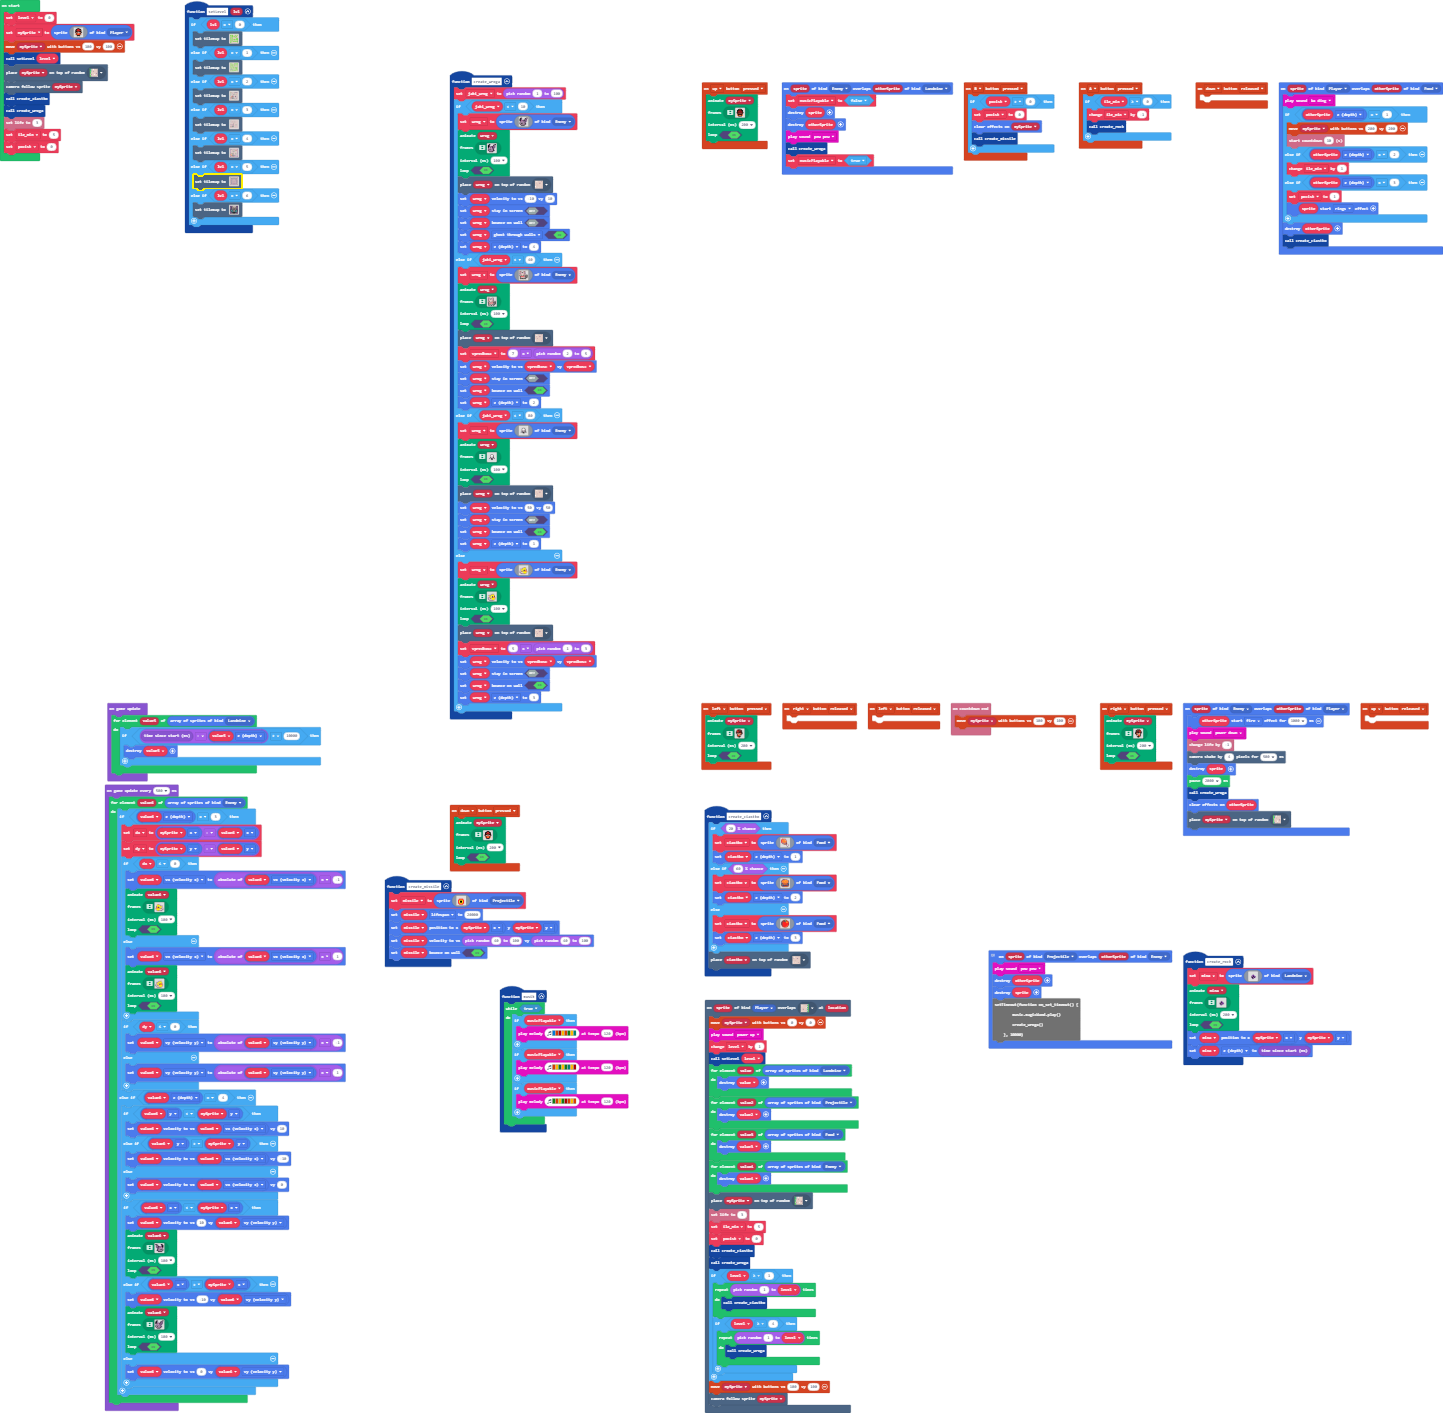
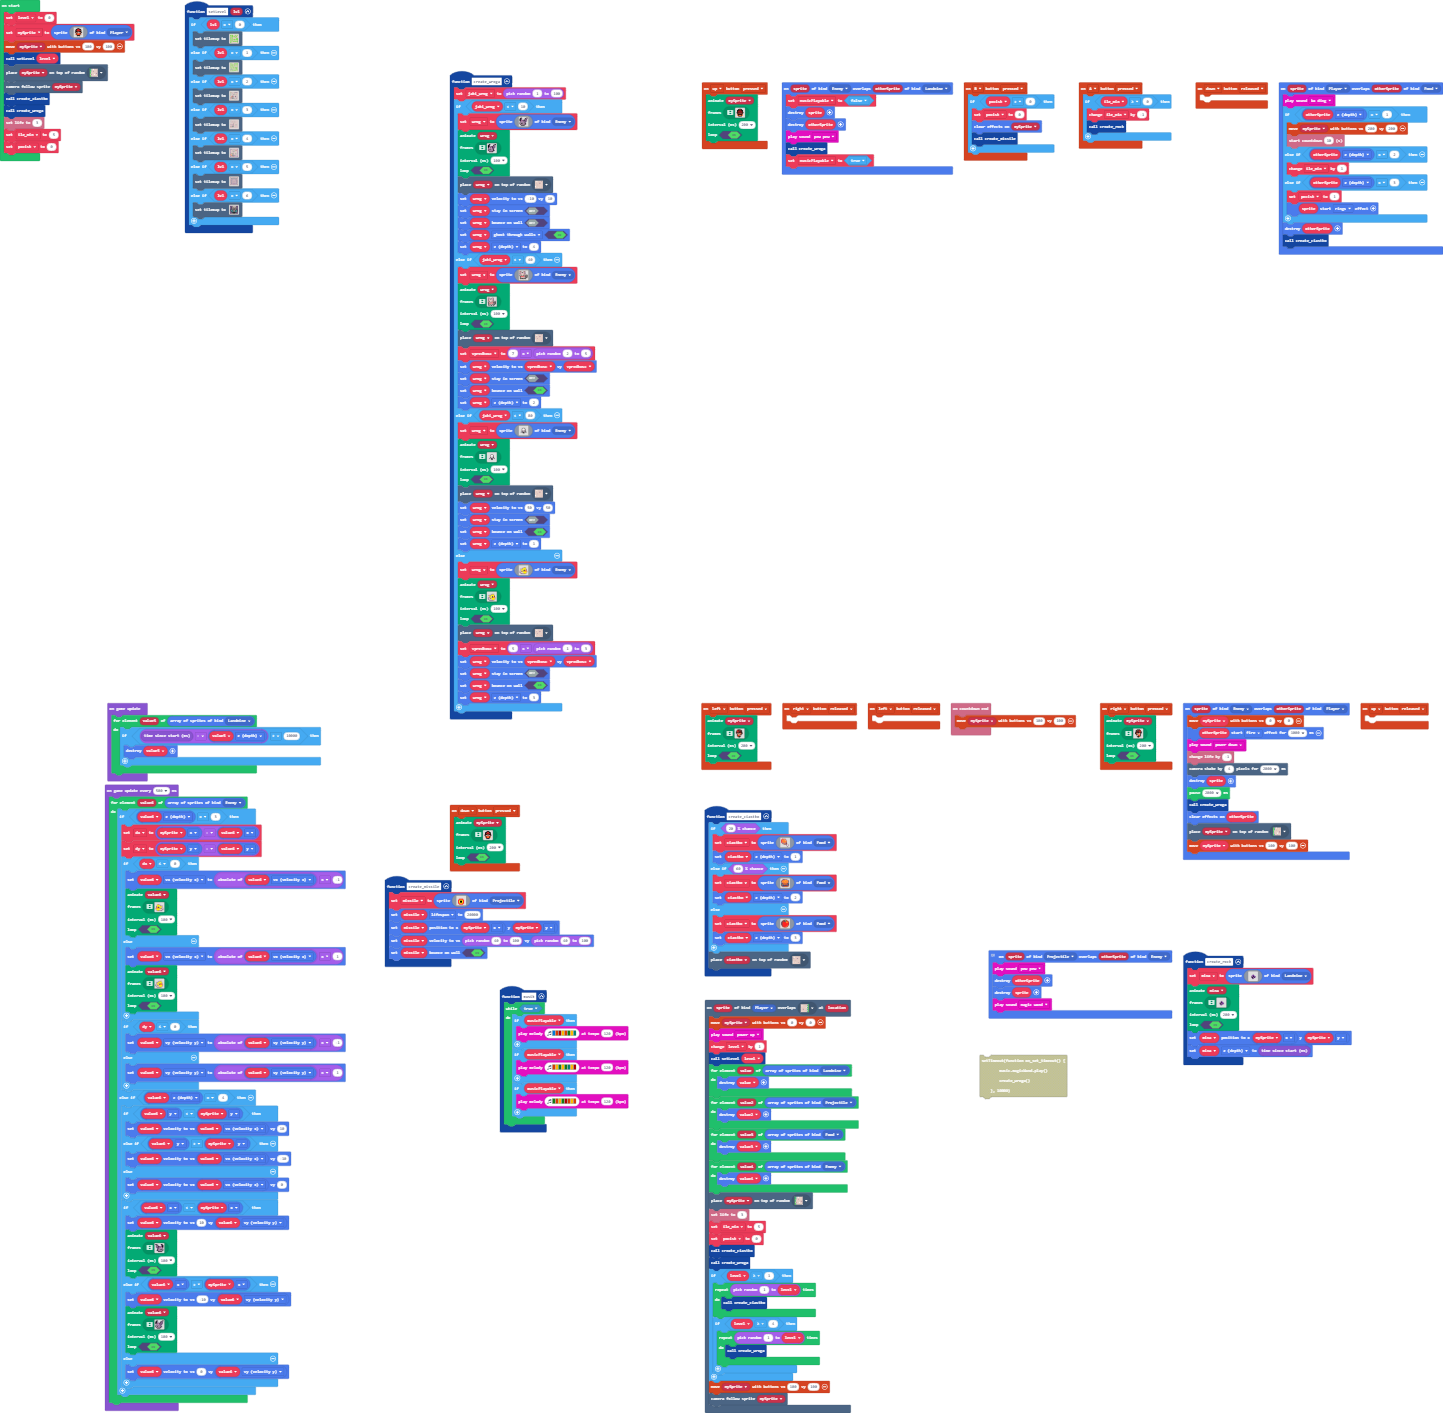
usuniety kawalek javascript ze spawnowaniem

Changed region(s): [[0.8108, 0.4982, 0.9356, 0.6228], [0.6549, 0.6851, 0.8108, 0.7785]]

diff --git a/images.g.ts b/images.g.ts
@@ -181,66 +181,6 @@ c e e 2 2 2 2 2 2 2 2 2 2 4 2 e
 . . . . . f f f f f f . . . . . 
 . . . . . f f . . f f . . . . . 
 `;
-            case "image1":return img`
-f f f f f f f f f f 
-f f f f f f f f f f 
-f f f f f f f f f f 
-f 4 f f f f f f 7 f 
-f f f f f f f f f f 
-f f f f f f f f f f 
-f f f f f f f f f f 
-f f f f f f f f f f 
-`;
-            case "image2":return img`
-9 9 9 9 9 9 9 9 9 9 
-9 9 9 9 9 9 9 9 9 9 
-9 9 9 9 9 9 9 9 9 9 
-9 4 9 9 9 9 9 9 7 9 
-9 9 9 9 9 9 9 9 9 9 
-9 9 9 9 9 9 9 9 9 9 
-9 9 9 9 9 9 9 9 9 9 
-9 9 9 9 9 9 9 9 9 9 
-`;
-            case "image3":return img`
-3 3 3 3 3 3 3 3 3 3 
-3 3 3 3 3 3 3 3 3 3 
-3 3 3 3 3 3 3 3 3 3 
-3 4 3 3 3 3 3 3 7 3 
-3 3 3 3 3 3 3 3 3 3 
-3 3 3 3 3 3 3 3 3 3 
-3 3 3 3 3 3 3 3 3 3 
-3 3 3 3 3 3 3 3 3 3 
-`;
-            case "image4":return img`
-f f f f f f f f f f 
-f f f f f f f f f f 
-f f f f f f f f f f 
-f 4 f f f f f f 7 f 
-f f f f f f f f f f 
-f f f f f f f f f f 
-f f f f f f f f f f 
-f f f f f f f f f f 
-`;
-            case "image5":return img`
-9 9 9 9 9 9 9 9 9 9 
-9 9 9 9 9 9 9 9 9 9 
-9 9 9 9 9 9 9 9 9 9 
-9 4 9 9 9 9 9 9 7 9 
-9 9 9 9 9 9 9 9 9 9 
-9 9 9 9 9 9 9 9 9 9 
-9 9 9 9 9 9 9 9 9 9 
-9 9 9 9 9 9 9 9 9 9 
-`;
-            case "image6":return img`
-3 3 3 3 3 3 3 3 3 3 
-3 3 3 3 3 3 3 3 3 3 
-3 3 3 3 3 3 3 3 3 3 
-3 4 3 3 3 3 3 3 7 3 
-3 3 3 3 3 3 3 3 3 3 
-3 3 3 3 3 3 3 3 3 3 
-3 3 3 3 3 3 3 3 3 3 
-3 3 3 3 3 3 3 3 3 3 
-`;
         }
         return null;
     })
@@ -5061,109 +5001,6 @@ c c c c . . . . . . . c c c . .
 . . . . f c b b b 1 f f f 1 f . 
 . . . . . f c b b b b b b f . . 
 . . . . . . f f f f f f f . . . 
-`];
-            case "anim49":return [img`
-. . . . . . . . . . . . . . . . 
-. . . . . . . . . . . . . . . . 
-. . . b 5 5 b . . . . . . . . . 
-. . . . b b b b b b . . . . . . 
-. . . b 5 5 5 5 5 b b . . . . . 
-. . b 5 5 5 5 5 5 5 b b b b b . 
-. . b 5 5 5 5 5 5 5 5 b 5 d b . 
-. . f 4 d 5 f 1 d 5 b 5 5 b . . 
-. . c 4 4 5 f f 1 b 5 5 d b . . 
-. b 4 4 4 4 b f d 5 5 5 b d b b 
-b 4 4 4 4 4 4 5 b 5 5 d c d d b 
-. b 5 5 5 5 5 5 5 b c c d d d c 
-. b 5 5 5 5 5 5 5 d d d d d b c 
-. b d 5 5 5 5 5 d d d d d d c . 
-. . b b 5 5 5 d d d d d b c . . 
-. . . b b c c c c c c c c . . . 
-`, img`
-. . . . . . . . . . . . . . . . 
-. . . b 5 b . . . . . . . . . . 
-. . . . b 5 b . . . . . . . . . 
-. . . . b b b b b b . . . . . . 
-. . . b 5 5 5 5 5 b b . . . . . 
-. . b 5 5 5 5 5 5 5 b b b b b . 
-. . b 5 5 5 5 5 5 5 5 b 5 d b . 
-. . f 4 d 5 f 1 d 5 b 5 5 b . . 
-. . c 4 4 5 f f 1 b 5 5 d b . . 
-b 4 4 4 4 4 b f d 5 5 5 b d b b 
-. b 4 4 4 4 4 5 b 5 5 d c d d b 
-. b 5 5 5 5 5 5 5 b c c d d d c 
-. b 5 5 5 5 5 5 5 d d d d d b c 
-. b d 5 5 5 5 5 d d d d d d c . 
-. . b b 5 5 5 d d d d d b c . . 
-. . . b b c c c c c c c c . . . 
-`, img`
-. . . b 5 b . . . . . . . . . . 
-. . . . b 5 b . . . . . . . . . 
-. . . . . c b . . . . . . . . . 
-. . . . b b b b b b . . . . . . 
-. . . b 5 5 5 5 5 b b . . . . . 
-. . f d 5 5 f 1 d 5 b b . . . . 
-. . c 4 d 5 f f 1 5 5 b . . . . 
-. . 4 4 d d b f d 5 5 b . . . . 
-b 4 4 4 4 4 5 5 5 d b b d d d b 
-. b 4 4 4 4 4 5 5 b 5 5 5 d b b 
-. . b 5 5 5 5 5 d 5 5 5 5 c d b 
-. b 5 5 5 5 5 5 b 5 5 d c d d c 
-. b 5 5 5 5 5 5 5 b c c d d b c 
-. b d 5 5 5 5 5 d d d d d d c . 
-. . b b 5 5 5 d d d d d b c . . 
-. . . b b c c c c c c c c . . . 
-`, img`
-. . . b 5 b . . . . . . . . . . 
-. . . . b 5 b . . . . . . . . . 
-. . . . b b b b b b . . . . . . 
-. . . b 5 5 5 5 5 b b . . . . . 
-. . c 4 d 5 f 1 d 5 b b . . . . 
-b 4 4 4 d d f f 1 5 5 b . . . . 
-. b 4 4 4 4 b f d 5 5 b . . . . 
-. . b 4 4 4 4 5 5 5 5 d b . . . 
-. . b 5 5 5 5 5 5 5 5 d d b . . 
-. b 5 5 5 5 5 5 5 5 d d d d b . 
-. b 5 5 5 5 5 5 5 b b b d d d b 
-. b 5 5 5 5 5 5 c d 5 5 b d d c 
-. b 5 5 5 5 5 5 d c d 5 d b b c 
-. b d 5 5 5 5 5 d d c b 5 5 b . 
-. . b b 5 5 5 d d d d c c c b b 
-. . . b b c c c c c c c c . . . 
-`, img`
-. . . b 5 b . . . . . . . . . . 
-. . . . b 5 b . . . . . . . . . 
-. . . . b b b b b b . . . . . . 
-. . . b 5 5 5 5 5 b b . . . . . 
-. . c 4 d 5 f 1 d 5 b b . . . . 
-b 4 4 4 d d f f 1 5 5 b . . . . 
-. b 4 4 4 4 b f d 5 5 b . . . . 
-. . b 4 4 4 4 5 5 5 5 d b . . . 
-. . b 5 5 5 5 5 5 5 d d d b b . 
-. b 5 5 5 5 5 5 5 b b b d d d b 
-. b 5 5 5 5 5 5 c d 5 5 b d d c 
-. b 5 5 5 5 5 5 d c d 5 d b b c 
-. b 5 5 5 5 5 5 d d c b 5 5 b c 
-. b d 5 5 5 5 5 d d d c c c b b 
-. . b b 5 5 5 d d d c c . . . . 
-. . . b b c c c c c . . . . . . 
-`, img`
-. . . b 5 b . . . . . . . . . . 
-. . . . b 5 b . . . . . . . . . 
-. . . . b b b b b b . . . . . . 
-. . . b 5 5 5 5 5 b b . . . . . 
-. . f d 5 5 f 1 d 5 b b . . . . 
-. . c 4 d 5 f f 1 5 5 b . . . . 
-. . 4 4 d d b f d 5 5 b . . . . 
-b 4 4 4 4 4 5 5 5 5 5 d b b b . 
-. b 4 4 4 4 4 5 5 d b b d d d b 
-. . b 5 5 5 5 5 5 b 5 5 5 d b b 
-. b 5 5 5 5 5 5 d 5 5 5 5 c d c 
-. b 5 5 5 5 5 5 b 5 5 d c d b c 
-. b d 5 5 5 5 5 d b c c d d c . 
-. . b b 5 5 5 d d d d d b c . . 
-. . . b b c c c c c c c c . . . 
-. . . . . . . . . . . . . . . . 
 `];
         }
         return null;

diff --git a/main.ts b/main.ts
@@ -728,15 +728,17 @@ controller.right.onEvent(ControllerButtonEvent.Pressed, function () {
     )
 })
 sprites.onOverlap(SpriteKind.Enemy, SpriteKind.Player, function (sprite, otherSprite) {
+    controller.moveSprite(mySprite, 0, 0)
     otherSprite.startEffect(effects.fire, 1000)
     music.powerDown.play()
     info.changeLifeBy(-1)
-    scene.cameraShake(4, 500)
+    scene.cameraShake(4, 2000)
     sprite.destroy()
     pause(2000)
     create_wroga()
     effects.clearParticles(otherSprite)
     tiles.placeOnRandomTile(mySprite, sprites.castle.tilePath4)
+    controller.moveSprite(mySprite, 100, 100)
 })
 controller.up.onEvent(ControllerButtonEvent.Released, function () {
 	
@@ -965,10 +967,7 @@ sprites.onOverlap(SpriteKind.Projectile, SpriteKind.Enemy, function (sprite, oth
     music.pewPew.play()
     otherSprite.destroy()
     sprite.destroy()
-    setTimeout(function on_set_timeout() {
-        music.magicWand.play()
-        create_wroga()
-    }, 10000)
+    music.magicWand.play()
 })
 function create_rock () {
     mina = sprites.create(img`
